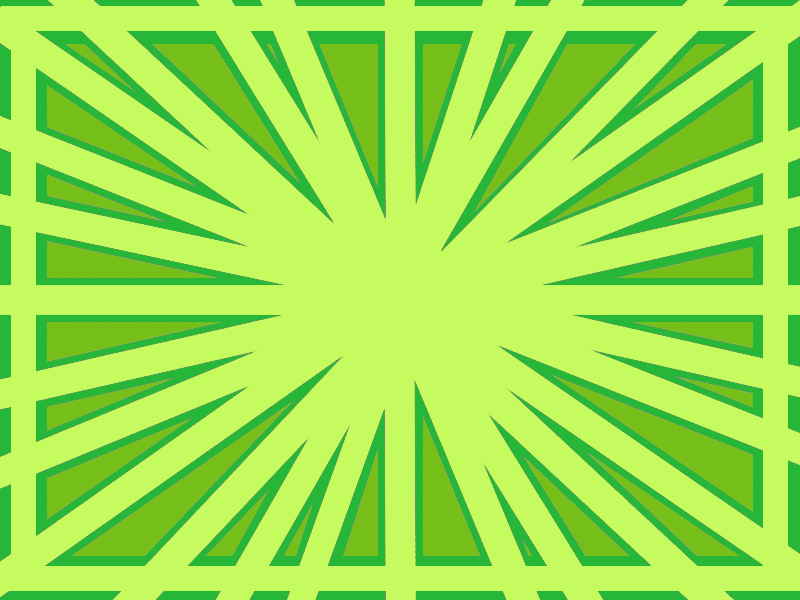
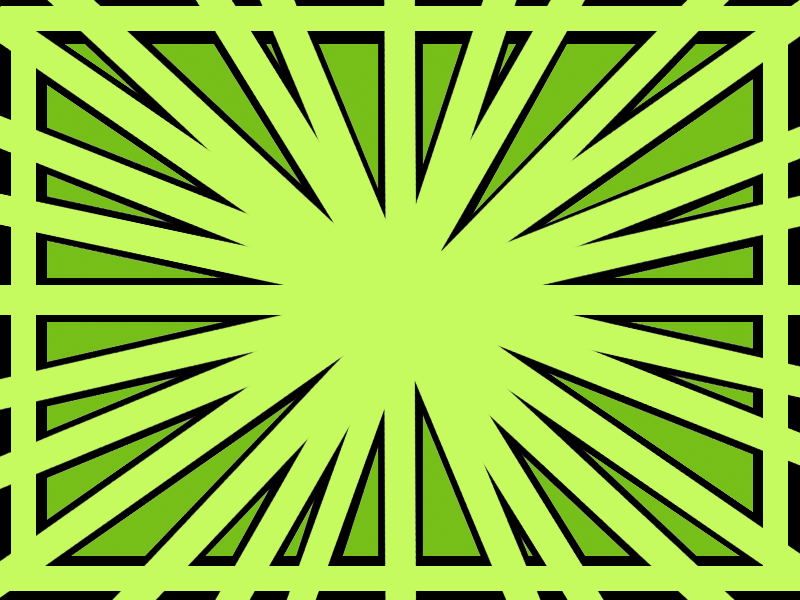
bug animations plus minor styling

diff --git a/src/PlayScene.js b/src/PlayScene.js
@@ -15,19 +15,23 @@ export var lives = 10;
 var cursors;
 var angularVelocity = 25;
 var angularAcceleration = 1000;
+var angle;
 class PlayScene extends Phaser.Scene {
   constructor() {
     super("PlayScene");
   }
 
   preload() {
-    this.load.image("background", "assets/background_2.png");
+    this.load.image("background", "assets/background.png");
     this.load.spritesheet("dev", "assets/dev_sprite.png", {
       frameWidth: 85,
       frameHeight: 85,
     });
     this.load.image("fix", "assets/fix.png");
-    this.load.image("bug", "assets/bug.png");
+    this.load.spritesheet("bug", "assets/bug_sprite.png", {
+      frameWidth: 93,
+      frameHeight: 90,
+    });
     this.load.audio("bug", "assets/bug.wav");
     this.load.audio("fix", "assets/fix.wav");
   }
@@ -65,6 +69,17 @@ class PlayScene extends Phaser.Scene {
     bugs = this.physics.add.group();
     this.sound.add("bug", { rate: 1 });
 
+    //the enemies animation
+    this.anims.create({
+      key: "bug_move",
+      frames: this.anims.generateFrameNumbers("bug", {
+        start: 0,
+        end: 3,
+      }),
+      frameRate: 5,
+      repeat: -1,
+    });
+
     //  The score
     scoreText = this.add.text(16, 0, "score: 0", {
       fontSize: "32px",
@@ -89,7 +104,7 @@ class PlayScene extends Phaser.Scene {
       //  Add and update the score
       score += 10;
       scoreText.setText("Score: " + score);
-      if (score % 70 == 0 && lives < 10) {
+      if (score % 50 == 0 && lives < 10) {
         lives++;
         livesText.setText("lives: " + lives);
       }
@@ -108,19 +123,20 @@ class PlayScene extends Phaser.Scene {
     // send a new bug in
     let randomMistake = Phaser.Math.Between(1, 1000);
     if (randomMistake > 990 && !newBugOut) {
-      let randomX = Phaser.Math.Between(-130, 130);
-
-      //  Add and update the score
-
-      let randomY = Phaser.Math.Between(-280, 300);
-      this.sound.play("bug");
-      let bug = bugs.create(400, 300, "bug");
-      bug.setVelocity(randomX, randomY);
-      bug.angle = player.angle;
+      let path = generatePath();
+      let bug = this.add.follower(path, 400, 300, "bug");
+      bugs.add(bug);
       bug.body.onWorldBounds = true;
-      bug.setCollideWorldBounds(true);
+      bug.body.setCollideWorldBounds(true);
+      this.sound.play("bug");
+      bug.startFollow({
+        duration: path.getLength() * 5,
+        rotateToPath: true,
+        rotationOffset: 45,
+      });
 
-      //avoid to have two bugs coming out at the same time
+      bug.anims.play("bug_move", true);
+      //avoid having two bugs coming out at the same time
       newBugOut = true;
       this.time.addEvent({
         delay: 400,
@@ -189,6 +205,53 @@ class PlayScene extends Phaser.Scene {
       lives = 10;
       gameOver = false;
       score = 0;
+    }
+
+    function generatePath() {
+      let path = new Phaser.Curves.Path(400, 300);
+      let x = 400;
+      let y = 300;
+      let random = Phaser.Math.Between(1, 4);
+      switch (random) {
+        //x towards 800 , y towards 0
+        case 1: {
+          for (let i = 0; i < 6; i++) {
+            x = Phaser.Math.Between(x, 800);
+            y = Phaser.Math.Between(0, y);
+            path.lineTo(x, y);
+          }
+          break;
+        }
+        //x towards 0 , y towards 600
+        case 2: {
+          for (let i = 0; i < 6; i++) {
+            x = Phaser.Math.Between(0, x);
+            y = Phaser.Math.Between(y, 600);
+            path.lineTo(x, y);
+          }
+          break;
+        }
+        //x towards 0 , y towards 0
+        case 3: {
+          for (let i = 0; i < 6; i++) {
+            x = Phaser.Math.Between(0, x);
+            y = Phaser.Math.Between(0, y);
+            path.lineTo(x, y);
+          }
+          break;
+        }
+        //x towards 800 , y towards 600
+        default:
+          {
+            for (let i = 0; i < 6; i++) {
+              x = Phaser.Math.Between(x, 800);
+              y = Phaser.Math.Between(y, 600);
+              path.lineTo(x, y);
+            }
+          }
+          break;
+      }
+      return path;
     }
   }
 }

diff --git a/index.html b/index.html
@@ -1,6 +1,8 @@
 <!DOCTYPE html>
 <html>
   <head>
+    <title>Fix that Bug</title>
+
     <meta charset="utf-8" />
     <link rel="preconnect" href="https://fonts.googleapis.com" />
     <link rel="preconnect" href="https://fonts.gstatic.com" crossorigin />
@@ -8,6 +10,18 @@
       href="https://fonts.googleapis.com/css2?family=Ceviche+One&family=Road+Rage&display=swap"
       rel="stylesheet"
     />
+    <style>
+      body {
+        background-color: black;
+        position: relative;
+      }
+
+      canvas {
+        left: 50%;
+        margin-left: -400px;
+        position: absolute;
+      }
+    </style>
   </head>
   <body></body>
 </html>

diff --git a/src/GameOverScene.js b/src/GameOverScene.js
@@ -5,13 +5,13 @@ class GameOverScene extends Phaser.Scene {
     super("GameOverScene");
   }
   preload() {
-    this.load.image("closure", "assets/closure_2.png");
+    this.load.image("closure", "assets/closure.png");
   }
 
   create() {
     this.add.image(400, 300, "closure");
 
-    this.input.keyboard.once("keydown", () => {
+    this.input.keyboard.once("keydown-ENTER", () => {
       this.scene.start("PreloadScene");
     });
   }

diff --git a/src/PreloadScene.js b/src/PreloadScene.js
@@ -6,7 +6,7 @@ class PreloadScene extends Phaser.Scene {
   }
 
   preload() {
-    this.load.image("cover", "assets/cover_2.png");
+    this.load.image("cover", "assets/cover.png");
   }
   create() {
     this.add.image(400, 300, "cover");
